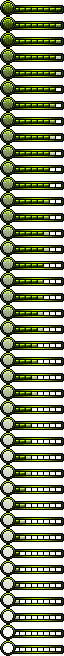
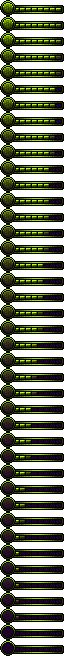
Improve GUI Area

Changed region(s): [[0.25, 0.0305, 0.9688, 1.0], [0.0312, 0.061, 0.2188, 1.0]]

diff --git a/core/src/wsuv/instinkt/GUI.java b/core/src/wsuv/instinkt/GUI.java
@@ -12,6 +12,7 @@ import java.util.HashMap;
 
 public class GUI {
 
+    private Texture bg; // Background
     private HealthBar hb;
     private SprayBar sb;
     private BitmapFont font;
@@ -26,6 +27,8 @@ public class GUI {
         hb = new HealthBar(game);
         sb = new SprayBar(game);
         font = game.am.get(Game.RSC_DPCOMIC_FONT);
+        font.setColor(0, 0, 0, 1);
+        bg = game.am.get(Game.RSC_GUI_AREA_IMG);
         this.player = player;
         this.playScreen = playScreen;
         this.berryCounter = new BerryCounter(game, berryManager);
@@ -51,10 +54,14 @@ public class GUI {
     }
 
     public void draw(Batch batch) {
-        hb.draw(batch);
-        sb.draw(batch);
-        berryCounter.draw(batch);
-        font.draw(batch, "Wave: " + playScreen.getWave(), 400f, 40f);
+        batch.draw(bg, 0f, 0f, bg.getWidth()*4f, bg.getHeight()*4f);
+        hb.draw(batch, 32f);
+        sb.draw(batch, 232f);
+        font.draw(batch, "Wave: " + playScreen.getWave(), 434f, 42f);
+        font.setColor(1,1,1,1);
+        font.draw(batch, "Wave: " + playScreen.getWave(), 432f, 44f);
+        font.setColor(0,0,0,1);
+        berryCounter.draw(batch, 532f);
     }
 }
 
@@ -95,9 +102,9 @@ class SprayBar {
         am.update();
     }
 
-    public void draw(Batch batch) {
+    public void draw(Batch batch, float x) {
         TextureRegion image = getImage();
-        batch.draw(image, 200+shakeX, 16, image.getRegionWidth()*PlayScreen.TILE_SCALE,
+        batch.draw(image, x+shakeX, 16, image.getRegionWidth()*PlayScreen.TILE_SCALE,
                 image.getRegionHeight()*PlayScreen.TILE_SCALE);
     }
 
@@ -149,9 +156,9 @@ class HealthBar {
         am.update();
     }
 
-    public void draw(Batch batch) {
+    public void draw(Batch batch, float x) {
         TextureRegion image = getImage();
-        batch.draw(image, 8, 16+shakeY, image.getRegionWidth()*PlayScreen.TILE_SCALE,
+        batch.draw(image, x, 16+shakeY, image.getRegionWidth()*PlayScreen.TILE_SCALE,
                 image.getRegionHeight()*PlayScreen.TILE_SCALE);
     }
 
@@ -184,8 +191,8 @@ class BerryCounter {
         berryIcon = GameObject.getImgRegion(game, berryIconLocation, Game.RSC_SS_BERRIES_IMG);
     }
 
-    public void draw(Batch batch) {
-        font.draw(batch, Integer.toString(berryManager.getBerriesCollected()), 700f, 40f);
-        batch.draw(berryIcon, 600f, -35f, berryIcon.getRegionWidth()*4, berryIcon.getRegionHeight()*4);
+    public void draw(Batch batch, float x) {
+        batch.draw(berryIcon, x, -34f, berryIcon.getRegionWidth()*4, berryIcon.getRegionHeight()*4);
+        font.draw(batch, Integer.toString(berryManager.getBerriesCollected()), x+100f, 44f);
     }
 }

diff --git a/core/src/wsuv/instinkt/Game.java b/core/src/wsuv/instinkt/Game.java
@@ -22,6 +22,7 @@ public class Game extends com.badlogic.gdx.Game {
     public static final String RSC_PRESSAKEY_IMG = "Images/pressakey.png";
     public static final String RSC_OVERLAY_IMG = "Images/Overlay Image.png";
     public static final String RSC_AOE_EFFECT_IMG = "Images/AOE Effect.png";
+    public static final String RSC_GUI_AREA_IMG = "Images/CrimsonFantasyGUI/GUI area.png";
 
     // Sprite Sheets
     public static final String RSC_SS_GRASS_IMG = "Images/Tileset Grass.png";
@@ -96,6 +97,7 @@ public class Game extends com.badlogic.gdx.Game {
         am.load(RSC_PRESSAKEY_IMG, Texture.class);
         am.load(RSC_OVERLAY_IMG, Texture.class);
         am.load(RSC_AOE_EFFECT_IMG, Texture.class);
+        am.load(RSC_GUI_AREA_IMG, Texture.class);
         am.load(RSC_SS_GRASS_IMG, Texture.class);
         am.load(RSC_SS_PLANTS_IMG, Texture.class);
         am.load(RSC_SS_PLANTS_SHADOW_IMG, Texture.class);

diff --git a/issues.md b/issues.md
@@ -58,13 +58,14 @@
 
 ## Backlog ##
 
+- **[]** In enemy_formations.txt, when a number is encountered in the same enemy chain,
+change the frequency
 - **[]** Refactor level design to have more horizontal enemy movement
 - **[]** Give player reason to move outside of their base
 - **[]** Stop enemy when first smelling stink.
+- **[]** Balance Player, Enemy, and World stats
 - **[]** 
 - **[]** 
-- **[]** In enemy_formations.txt, when a number is encountered in the same enemy chain,
-change the frequency
 - **[]** Use Regeneration animation for health and spray
 - **[]** 
 - **[]** 
